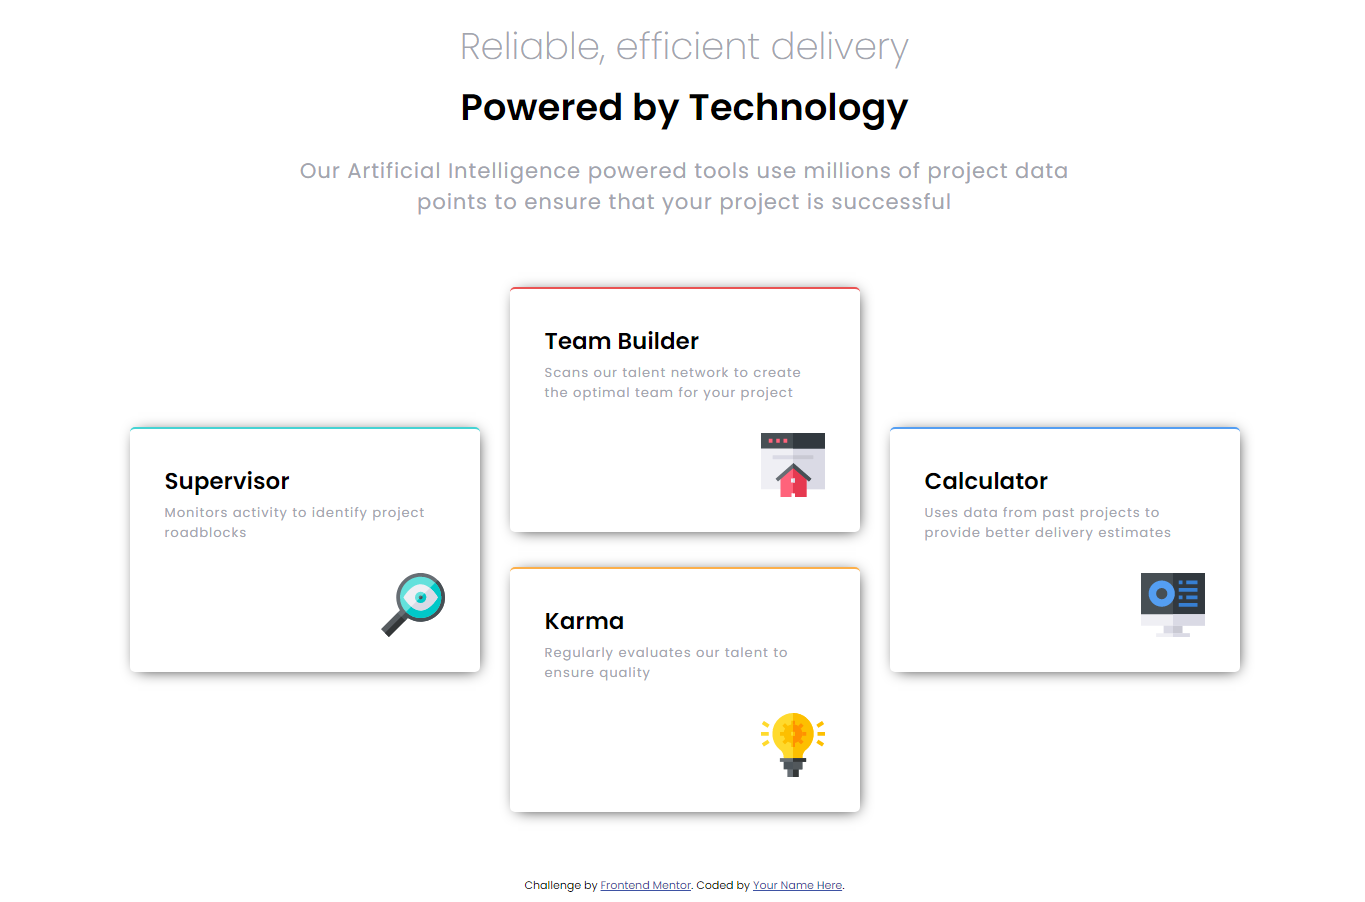
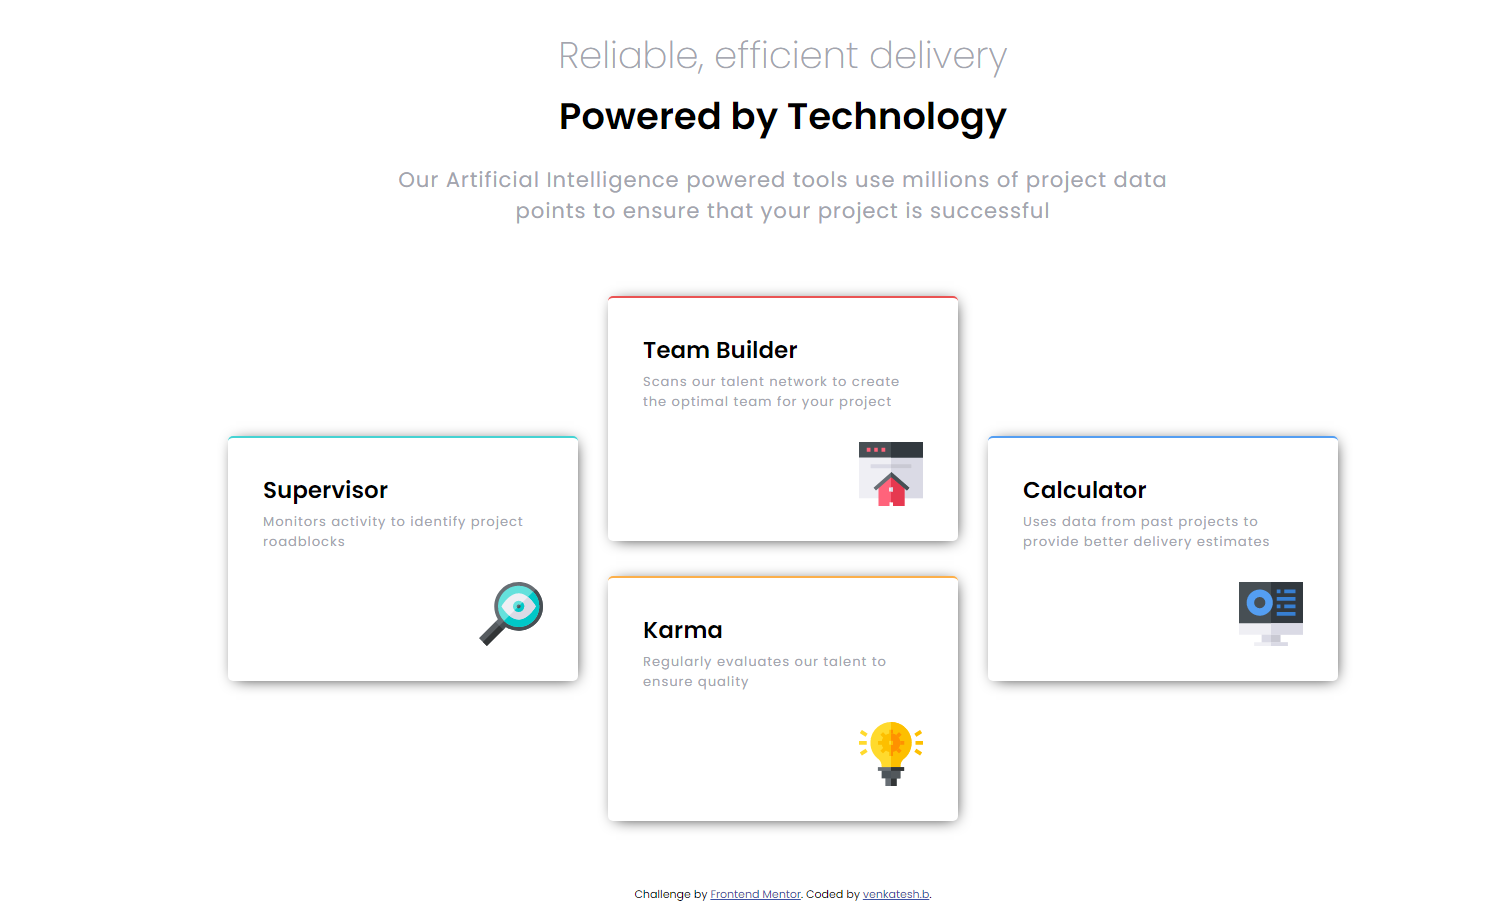
changes the responsive ness of the page

diff --git a/index.html b/index.html
@@ -37,6 +37,7 @@
 
       <main class="main">
         <section class="section">
+          <!--  <div class="section__col-flex section__col-flex--1"> -->
           <div class="section__col col--1">
             <h2 class="section__col-heading">Supervisor</h2>
             <p class="section__col-text">
@@ -48,31 +49,33 @@
               class="section__col-img"
             />
           </div>
-          <div class="section__col-flex">
-            <div class="section__col col--2">
-              <h2 class="section__col-heading">Team Builder</h2>
-              <p class="section__col-text">
-                Scans our talent network to create the optimal team for your
-                project
-              </p>
-              <img
-                src="images/icon-team-builder.svg"
-                alt="house"
-                class="section__col-img"
-              />
-            </div>
-            <div class="section__col col--3">
-              <h2 class="section__col-heading">Karma</h2>
-              <p class="section__col-text">
-                Regularly evaluates our talent to ensure quality
-              </p>
-              <img
-                src="images/icon-karma.svg"
-                alt="light-bulb"
-                class="section__col-img"
-              />
-            </div>
+
+          <div class="section__col col--2">
+            <h2 class="section__col-heading">Team Builder</h2>
+            <p class="section__col-text">
+              Scans our talent network to create the optimal team for your
+              project
+            </p>
+            <img
+              src="images/icon-team-builder.svg"
+              alt="house"
+              class="section__col-img"
+            />
           </div>
+          <!--  </div> -->
+          <!--   <div class="section__col-flex section__col-flex--2"> -->
+          <div class="section__col col--3">
+            <h2 class="section__col-heading">Karma</h2>
+            <p class="section__col-text">
+              Regularly evaluates our talent to ensure quality
+            </p>
+            <img
+              src="images/icon-karma.svg"
+              alt="light-bulb"
+              class="section__col-img"
+            />
+          </div>
+
           <div class="section__col col--4">
             <h2 class="section__col-heading">Calculator</h2>
             <p class="section__col-text">
@@ -84,10 +87,11 @@
               class="section__col-img"
             />
           </div>
+          <!--  </div> -->
         </section>
       </main>
 
-      <footer>
+      <footer class="footer">
         <p class="attribution">
           Challenge by
           <a href="https://www.frontendmentor.io?ref=challenge" target="_blank"

diff --git a/css/style.css b/css/style.css
@@ -99,6 +99,7 @@ body {
 /* Footer */
 
 .attribution {
+  margin-top: 5rem;
   font-size: 11px;
   text-align: center;
 }
@@ -134,39 +135,17 @@ body {
   }
 }
 
-@media screen and (min-width: 56.25em) {
-  /* 900px */
-  /* header */
-  .header {
-    padding: 0 9rem;
-  }
-
-  .header__heading {
-    font-size: 4rem;
-  }
-
-  .header__text {
-    font-size: 2rem;
-  }
-
-  /* Main */
-
-  .section__col-heading {
-    font-size: 3rem;
-  }
-}
-
-@media screen and (min-width: 62.5em) {
-  /* 68.75em/1100px */
-  /* 62.5/1000 */
-
+@media screen and (min-width: 53.125em) {
+  /* 850px == 53.125em */
   .container {
-    width: 144rem;
-    margin: 0 auto;
+    max-width: 144rem;
+    margin: auto;
+    margin-bottom: 7.5rem;
   }
 
   /* header */
   .header {
+    padding: 0 5rem;
     margin-bottom: 7rem;
     text-align: center;
   }
@@ -178,7 +157,7 @@ body {
   .header__text {
     font-size: 2.1rem;
     letter-spacing: 1px;
-    padding: 0 21rem;
+    padding: 0 9rem;
   }
 
   /* Main */
@@ -188,28 +167,17 @@ body {
 
   .section {
     display: flex;
+    flex-wrap: wrap;
     flex-direction: row;
     justify-content: center;
     align-content: center;
-    gap: 3rem;
+    gap: 3.5rem;
   }
 
   .section__col {
     max-width: 35rem;
     padding: 3.5rem;
-  }
-
-  .section__col-flex {
-    display: flex;
-    flex-direction: column;
-  }
-
-  .col--1 {
-    align-self: center;
-  }
-
-  .col--4 {
-    align-self: center;
+    margin-bottom: 0;
   }
 
   .section__col-heading {
@@ -218,5 +186,43 @@ body {
 
   .section__col-text {
     font-size: 1.3rem;
+  }
+}
+@media screen and (min-width: 59.37em) {
+  /* 950px = 59.37em */
+
+  /* header*/
+  .header__text {
+    padding: 0 13rem;
+  }
+
+  /* main-section-col */
+  .col--1 {
+    transform: translateY(50%);
+  }
+
+  .col--3 {
+    order: 4;
+  }
+
+  .col--4 {
+    transform: translateY(50%);
+  }
+
+  /* footer */
+  .footer {
+    transform: translateX(20%);
+  }
+  .attribution {
+    font-size: 11px;
+    text-align: center;
+  }
+  .attribution a {
+    color: hsl(228, 45%, 44%);
+  }
+}
+@media screen and (min-width: 74.8em) {
+  .footer {
+    transform: translateX(0%);
   }
 }
